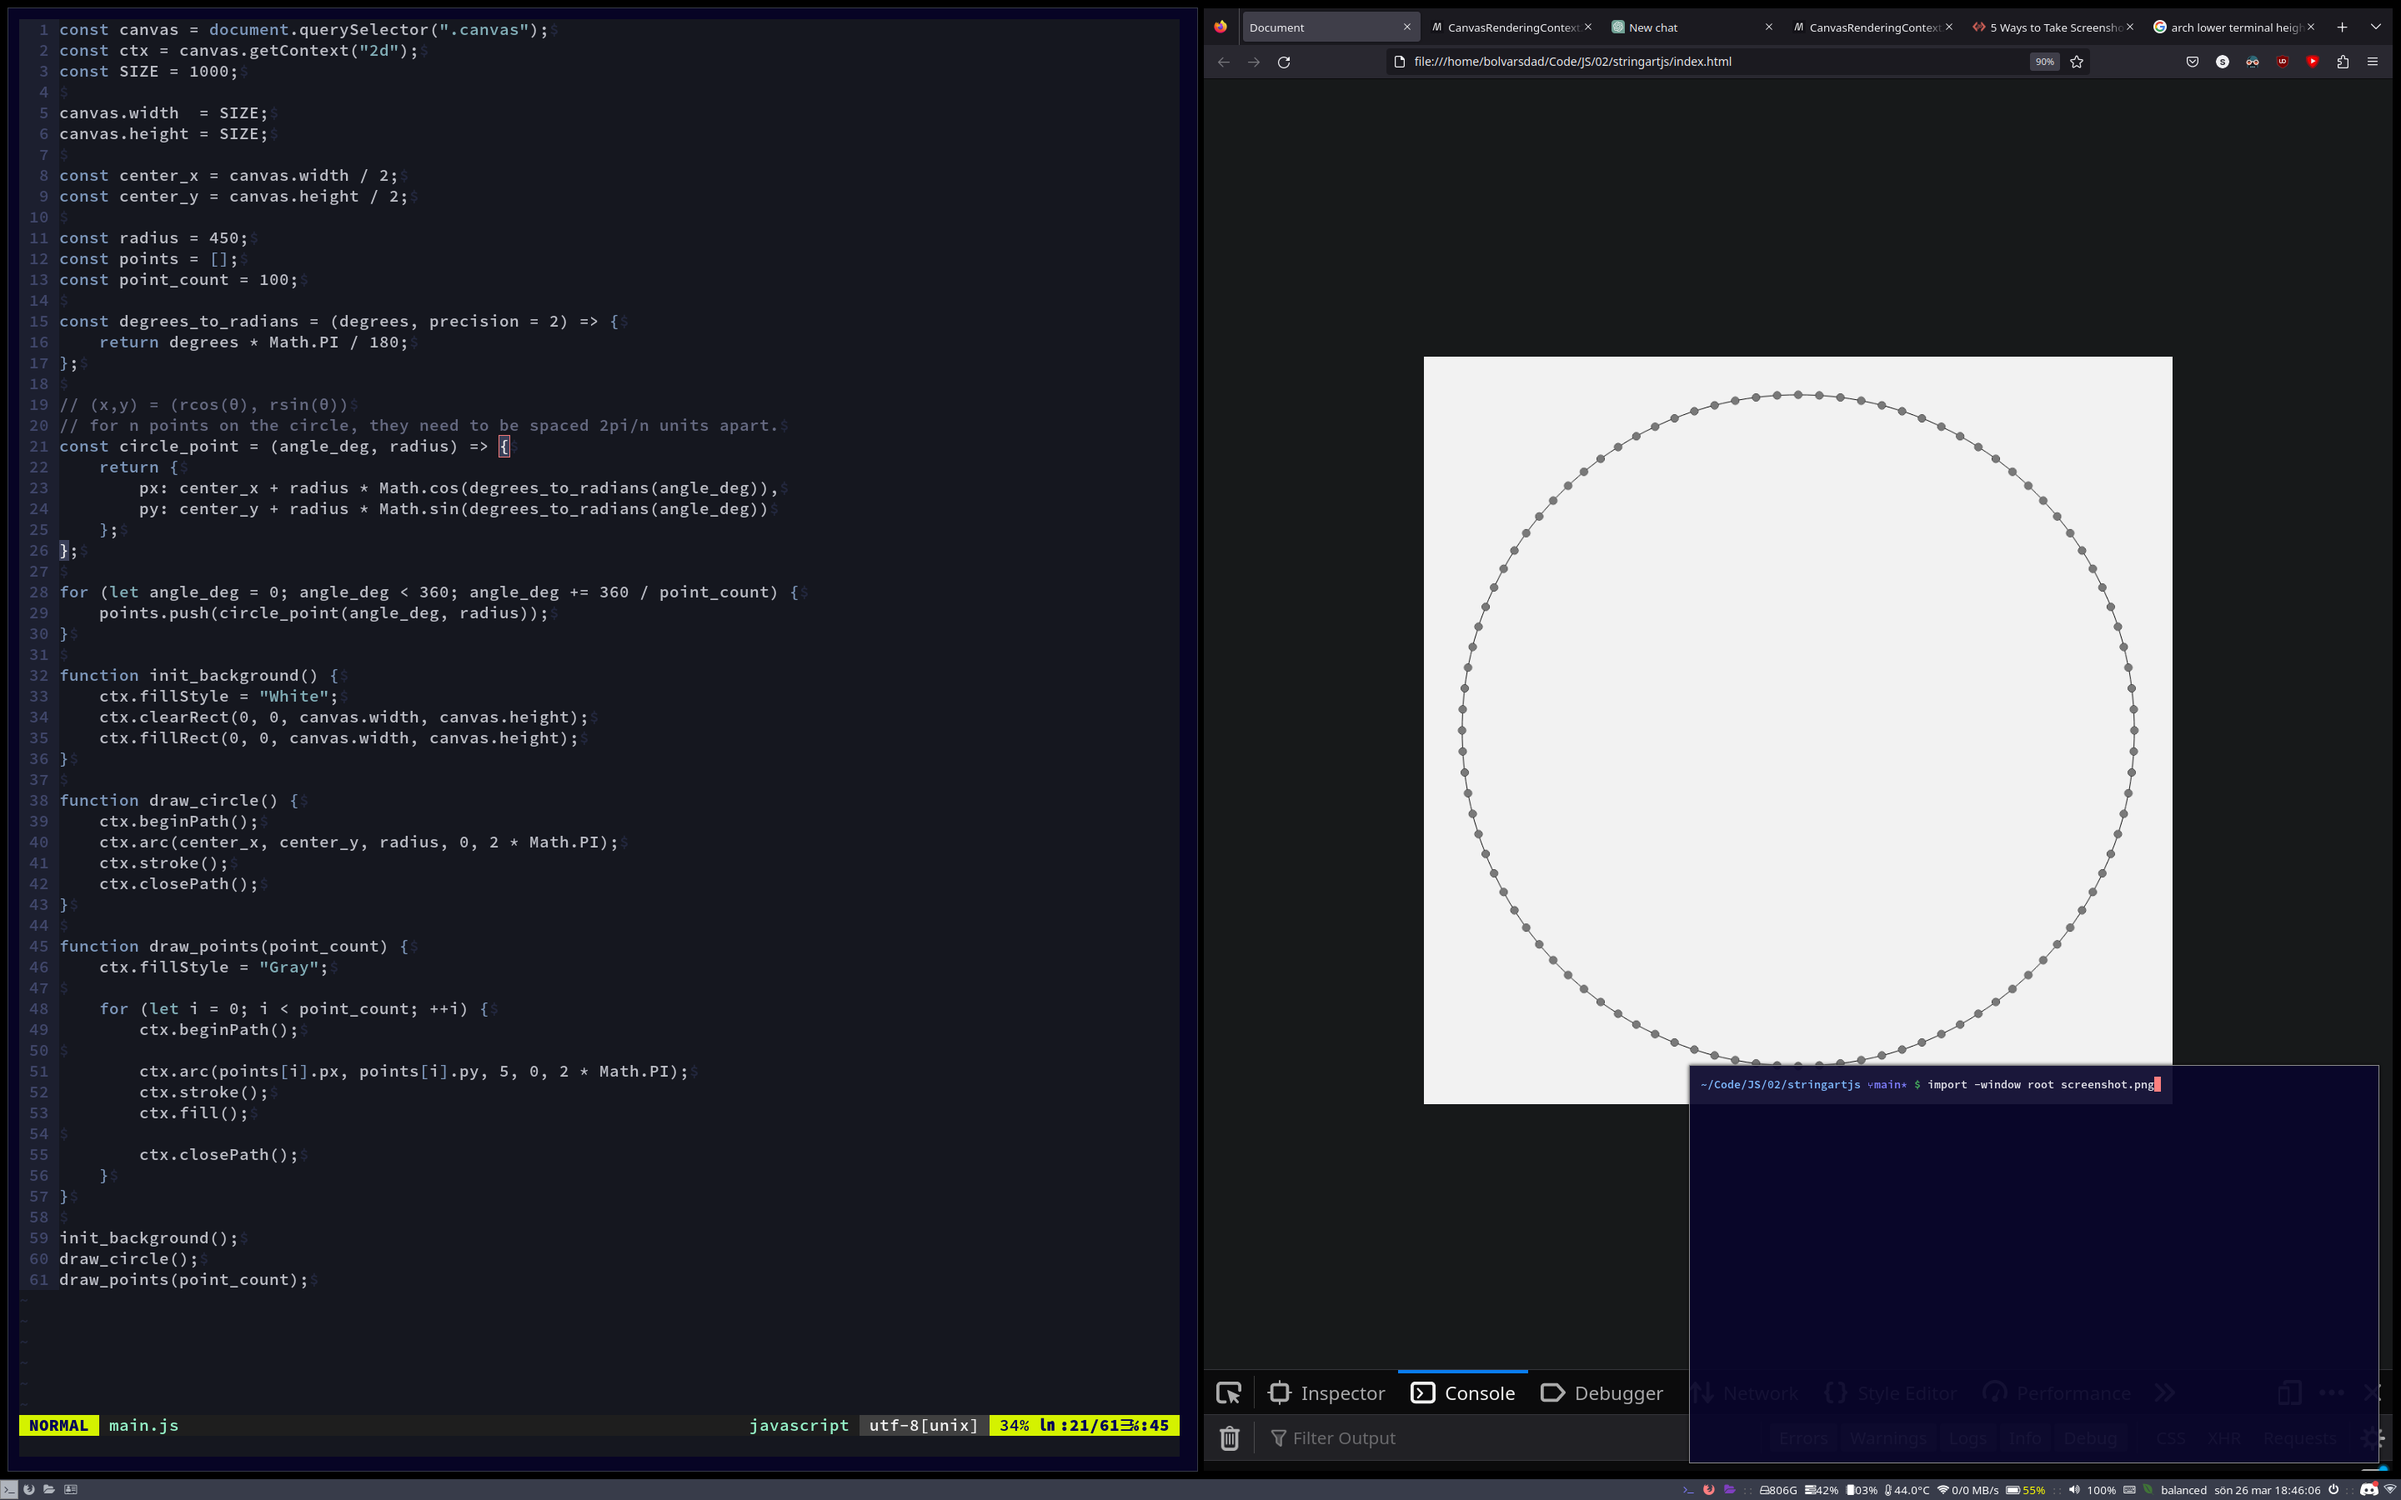
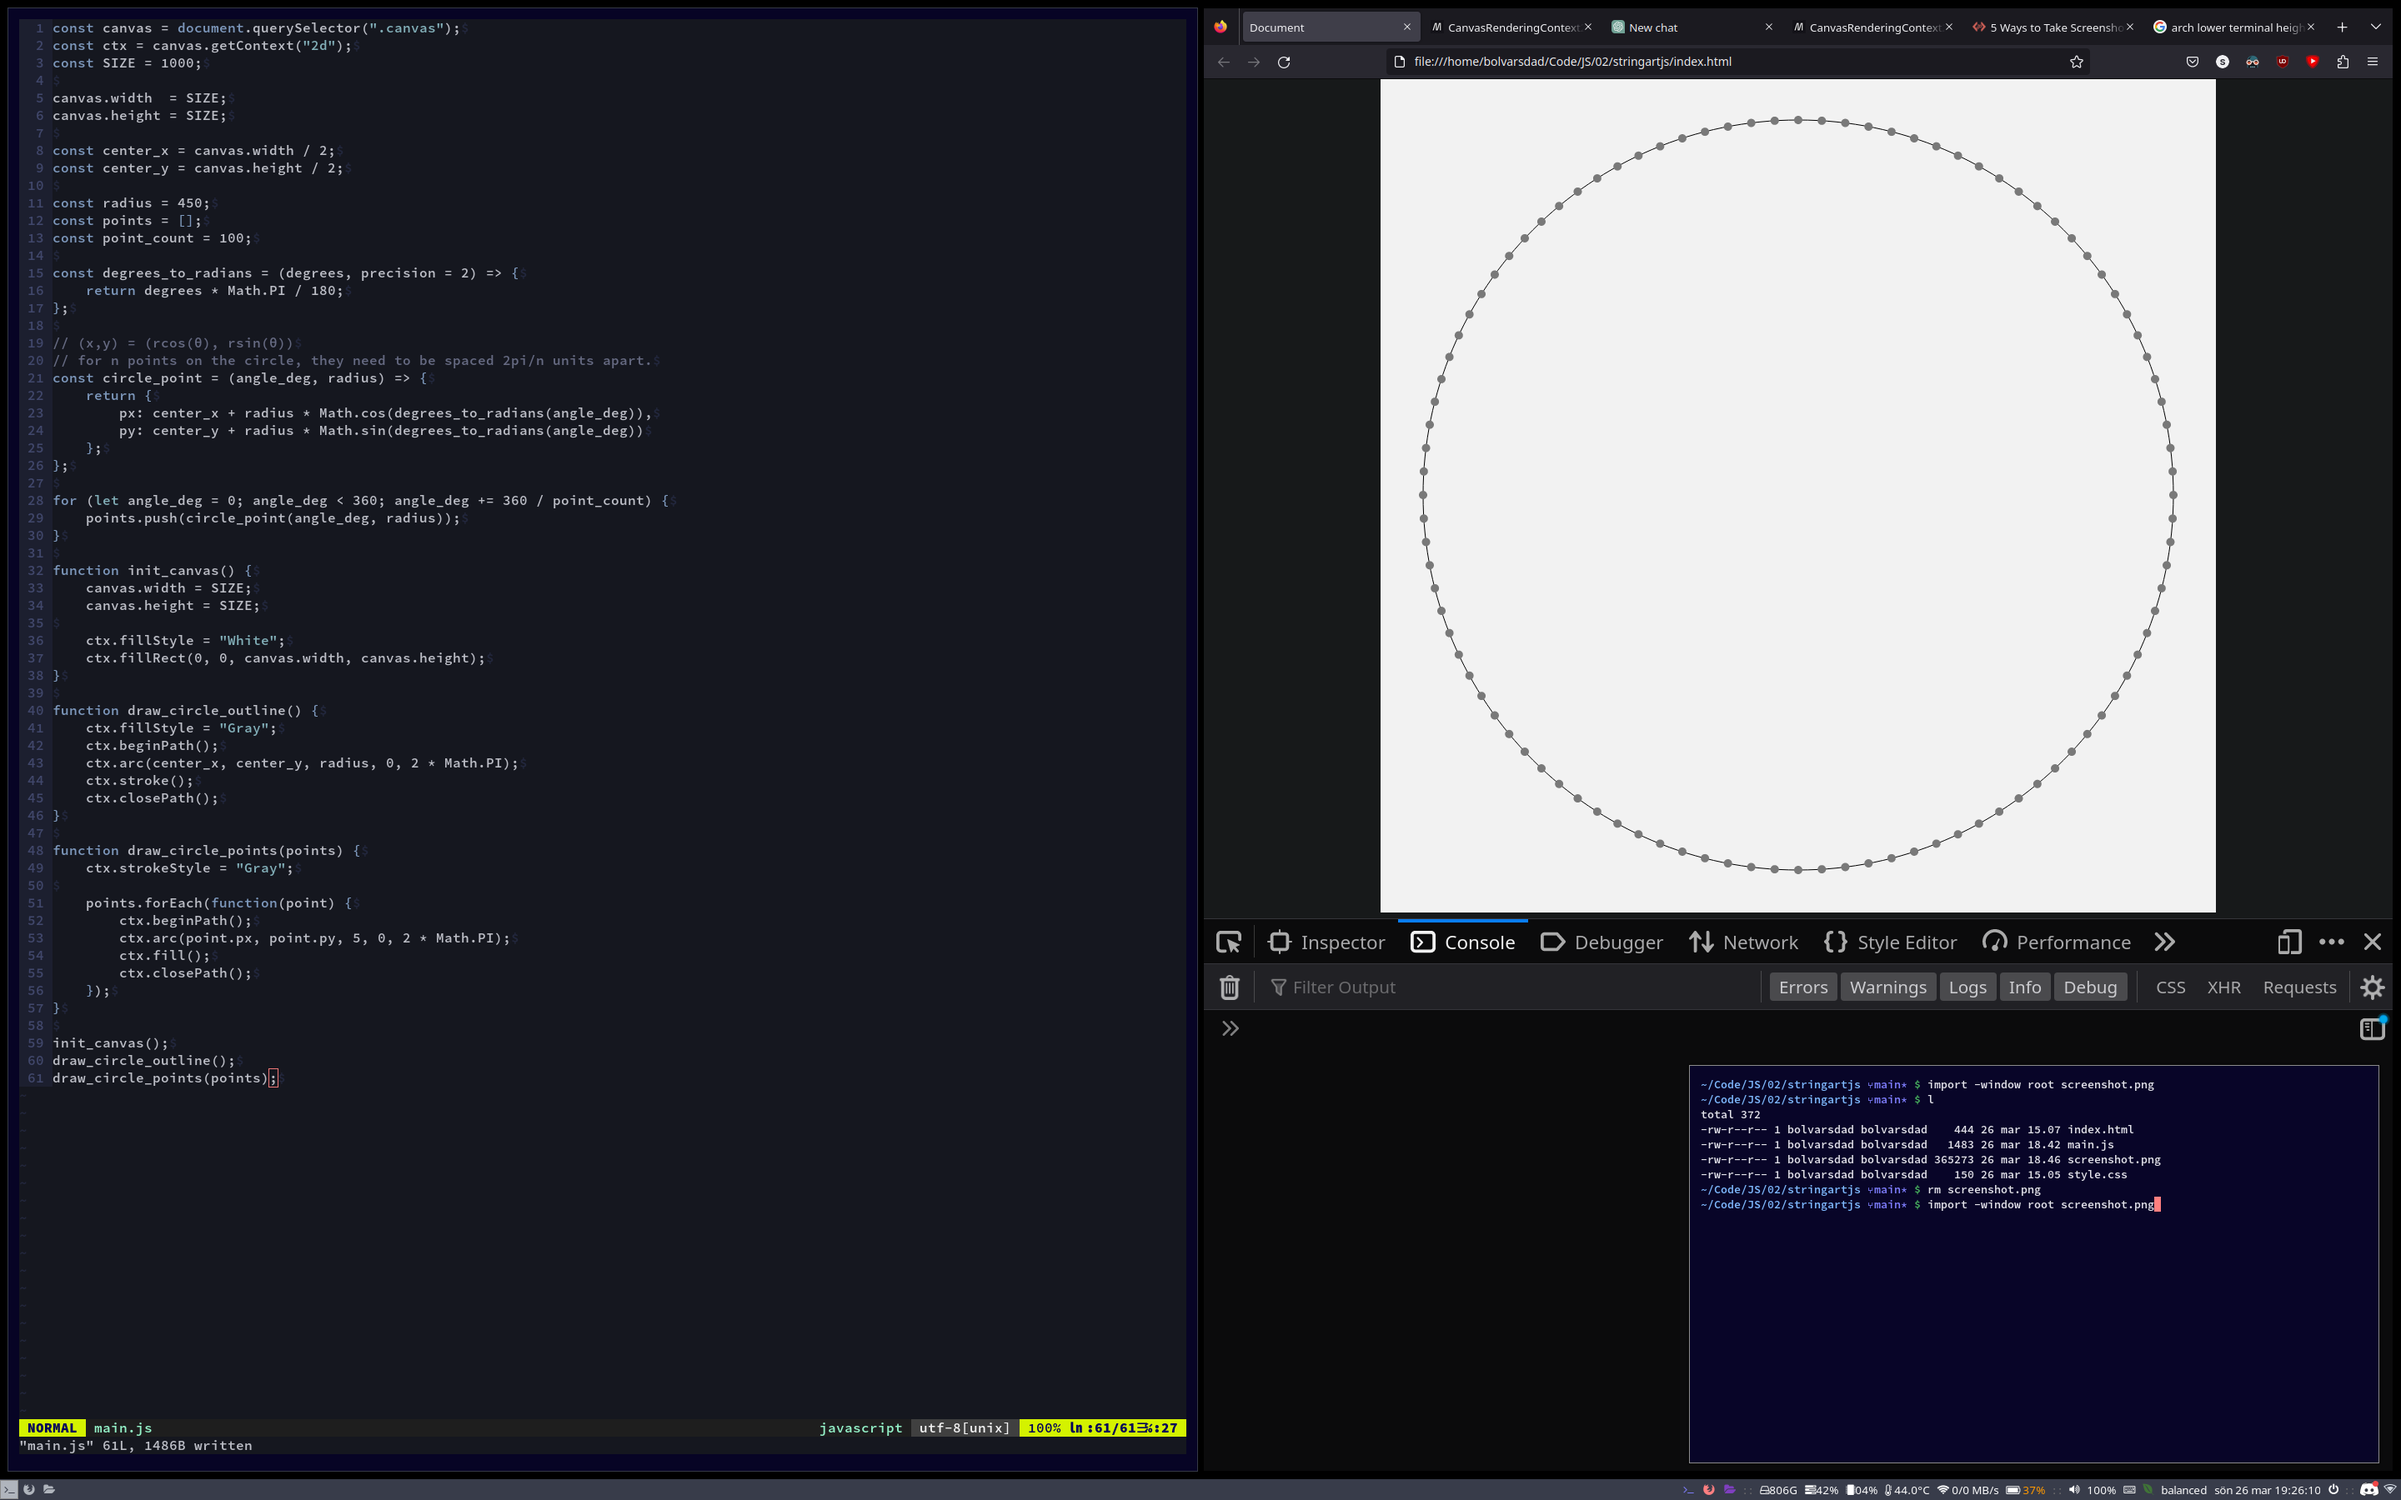
update

diff --git a/main.js b/main.js
@@ -2,7 +2,7 @@ const canvas = document.querySelector(".canvas");
 const ctx = canvas.getContext("2d");
 const SIZE = 1000;
 
-canvas.width  = SIZE;
+canvas.width = SIZE;
 canvas.height = SIZE;
 
 const center_x = canvas.width / 2;
@@ -30,9 +30,6 @@ for (let angle_deg = 0; angle_deg < 360; angle_deg += 360 / point_count) {
 }
 
 function init_canvas() {
-    canvas.width = SIZE;
-    canvas.height = SIZE;
-
     ctx.fillStyle = "White";
     ctx.fillRect(0, 0, canvas.width, canvas.height);
 }
@@ -46,7 +43,7 @@ function draw_circle_outline() {
 }
 
 function draw_circle_points(points) {
-    ctx.fillStyle = "Gray";
+    ctx.strokeStyle = "Gray";
 
     points.forEach(function(point) {
         ctx.beginPath();
